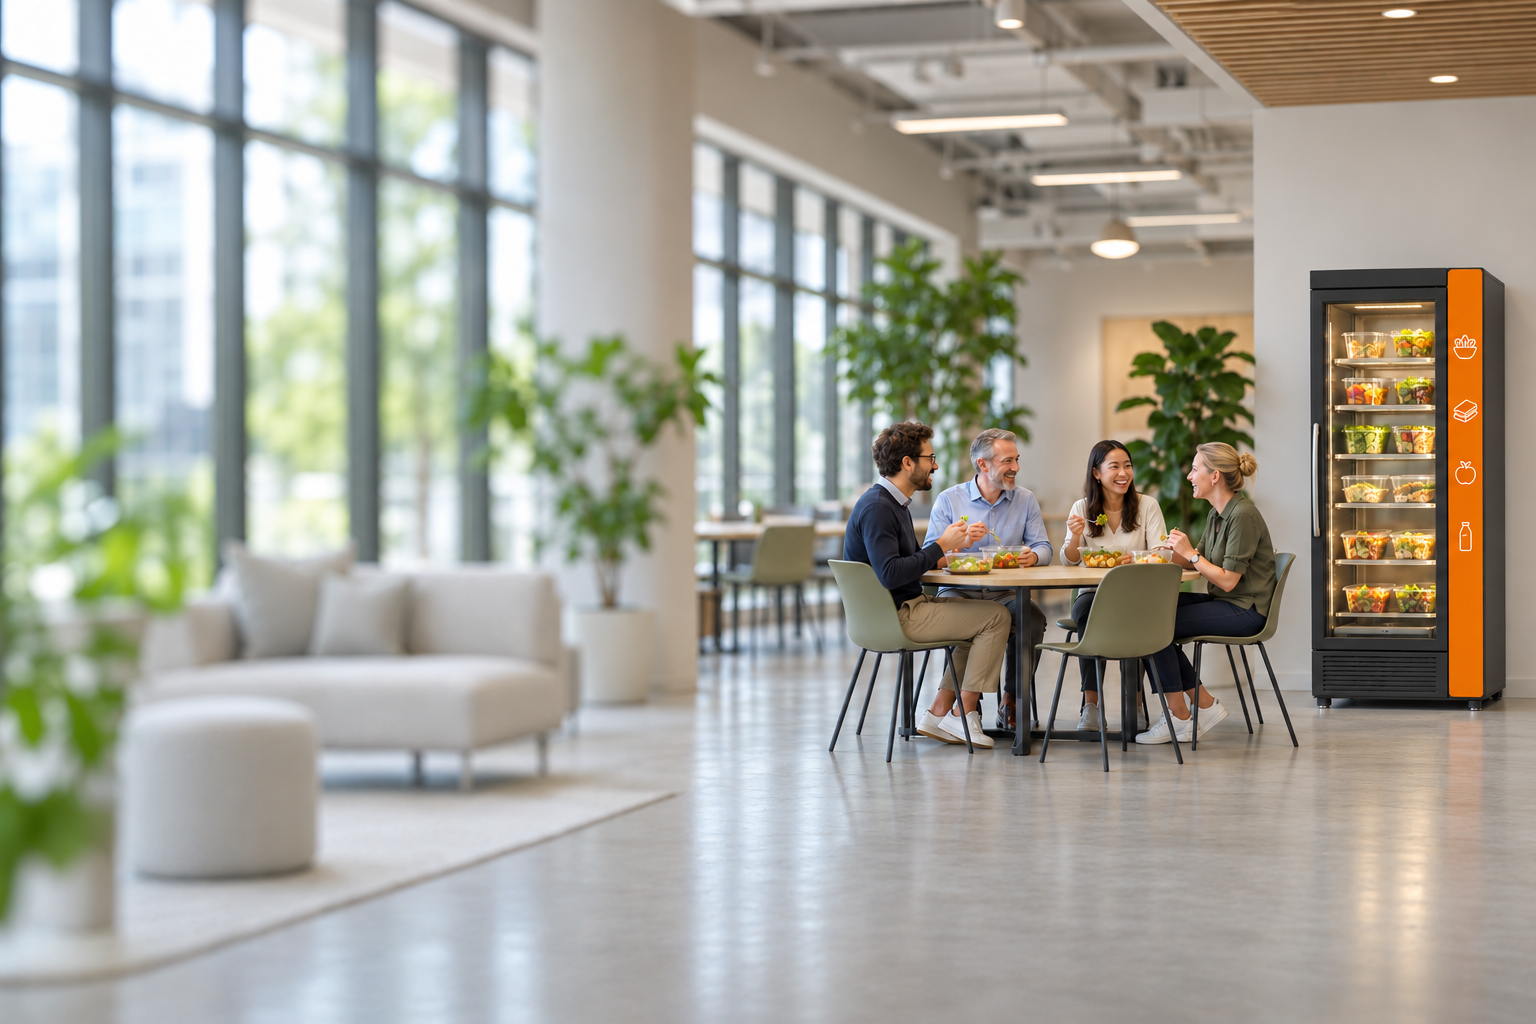
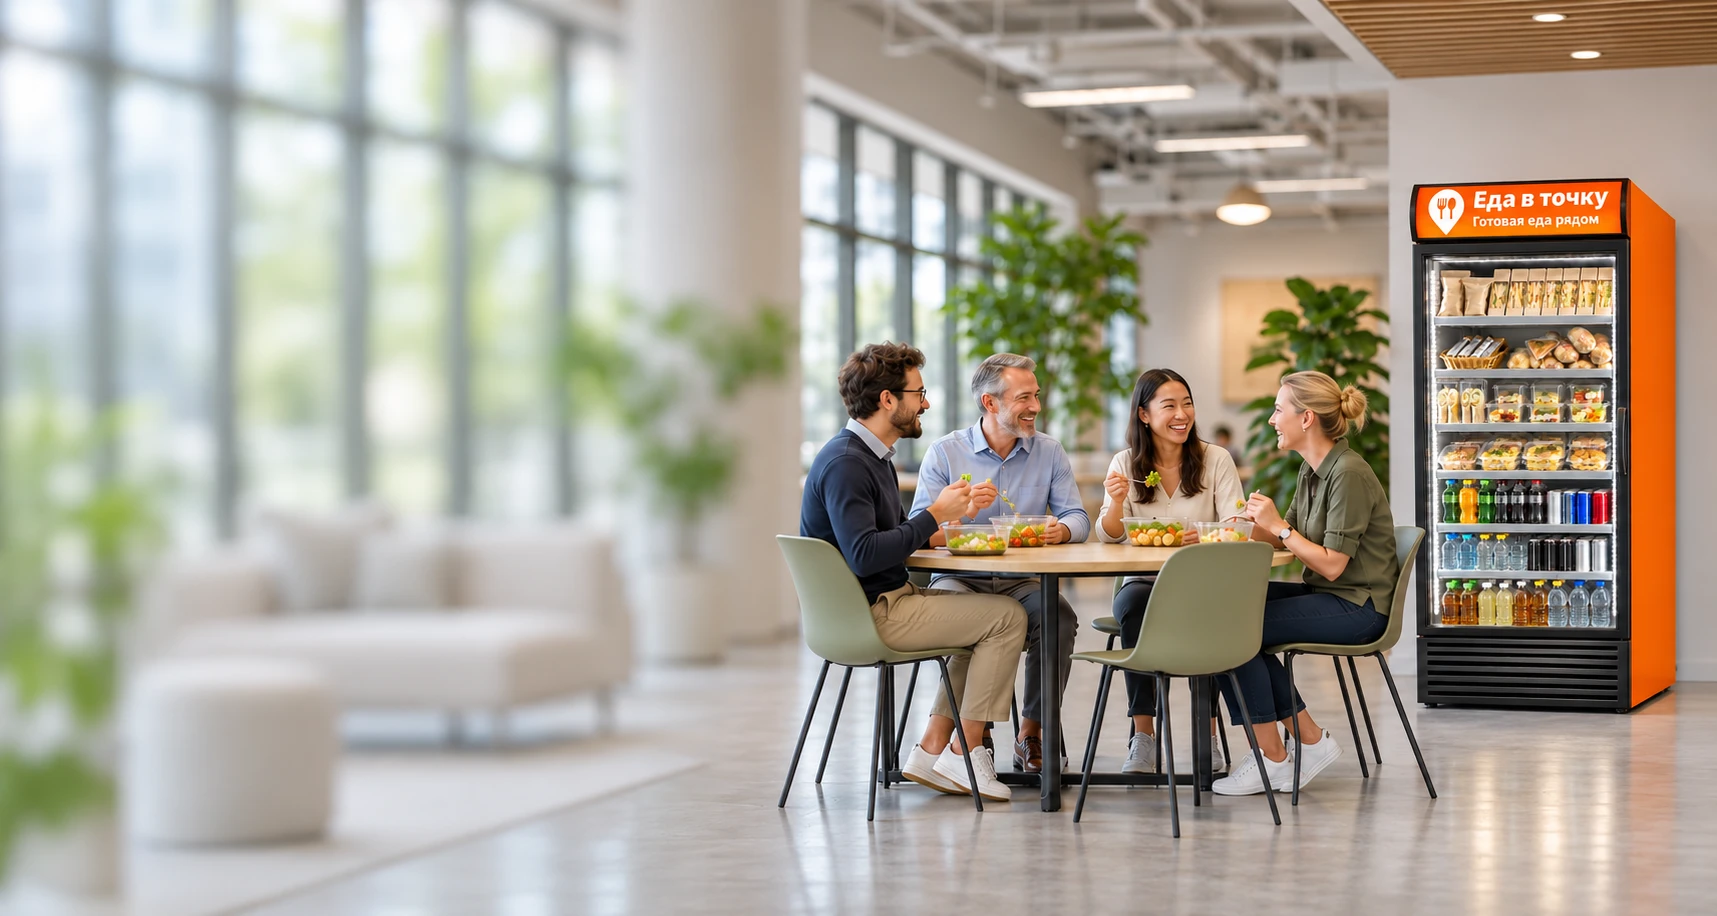
Hero v4: новая широкая картинка 1920×1024 с новым холодильником, высота шапки растёт на больших мониторах (#29)
Claude-Session: https://claude.ai/code/session_01RjrWoY9dTF8Jmk433wLEoj

diff --git a/landing.css b/landing.css
@@ -339,3 +339,8 @@ h1,h2,h3,p { overflow-wrap:break-word; }
 @media(max-width:650px) { .lp-logo img { height:36px; } .lp-logo-footer img { height:34px; } }
 .lp-logo img { height:54px; }
 @media(max-width:650px) { .lp-logo img { height:42px; } }
+@media(min-width:901px) {
+  .lp-hero-grid { min-height:clamp(520px,34vw,660px); }
+  .lp-slide-img { object-position:center 48%; }
+}
+@media(max-width:900px) { .lp-slide-img { object-position:100% 45%; } }
